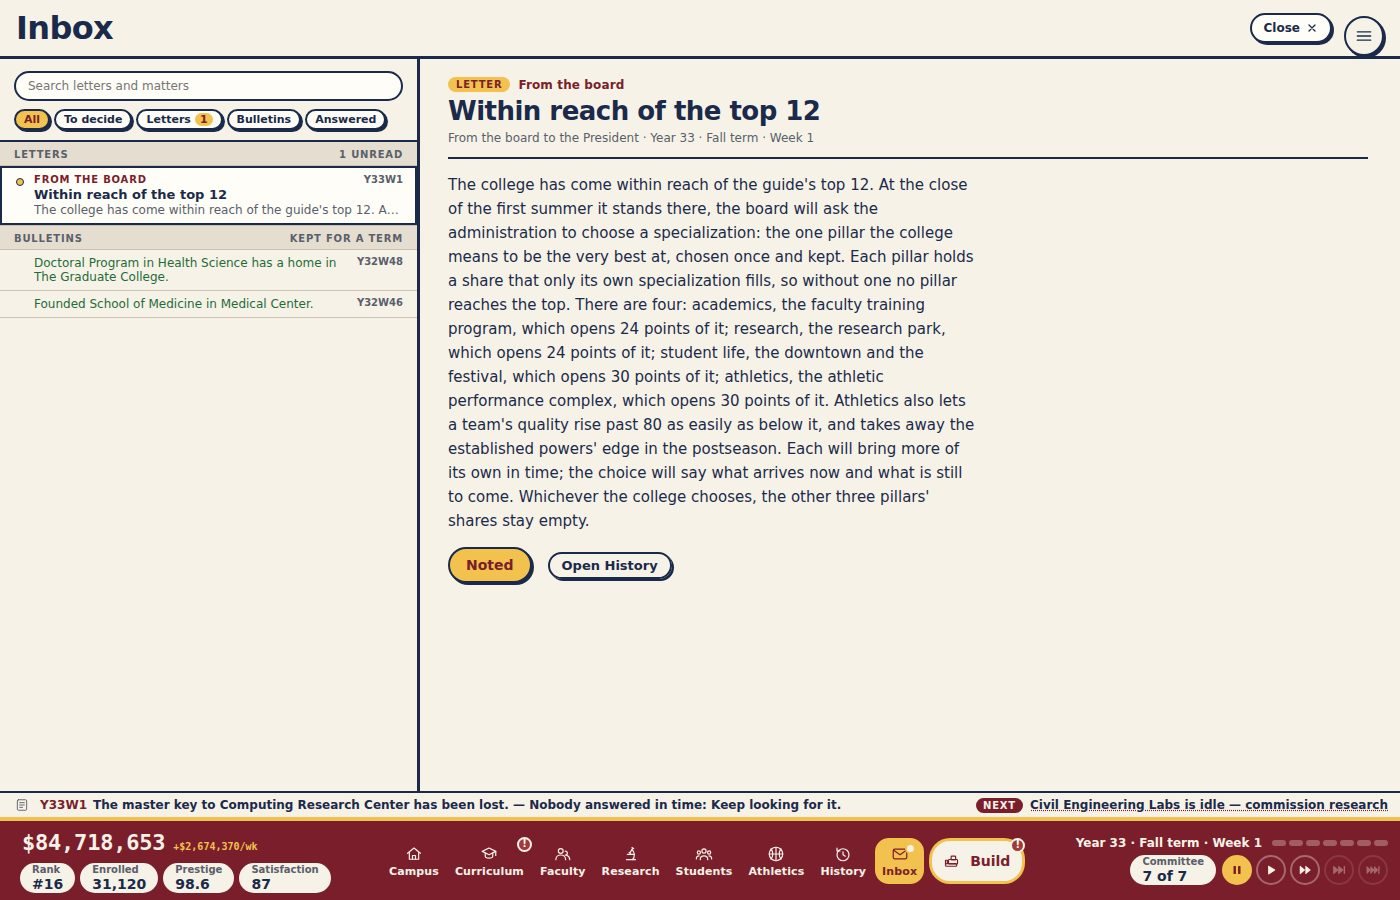
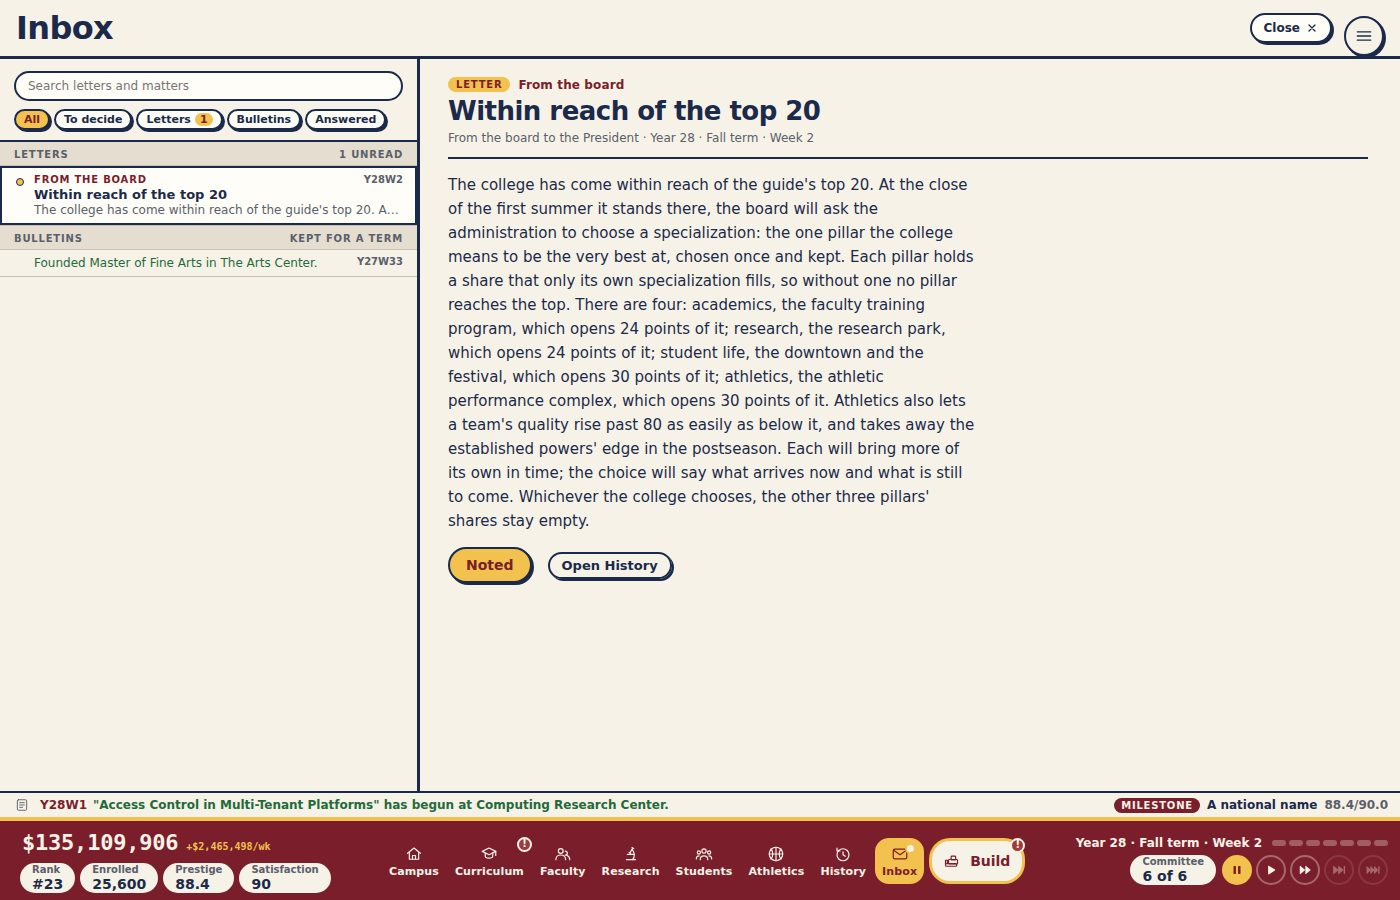
Plan 85D: the milestone lowered to the top 20
The owner kept the no-caps structure and lowered the milestone instead
(Plan 85 §2, 2026-09-30). Without the ceilings' slack the strong players
climb later; at the top 12 the Completionist reached it after year 40 on
two seeds. The top 20 is the tightest rank inside the owner's years 25-40
on every seed: Guided 29-31, the Completionist 30-38 (the top 18 and 19
reach 41 on seed 4242). The notice stays at four places, the top 24.

Choosing earlier fills the term sooner: Guided is first on every seed from
years 42-44, the Completionist on two from 45 and 49; held to no
specialization neither is ever first (best 4th). Baseline re-recorded, 0
deltas. The notice and choice screenshots are retaken for the new words.

Claude-Session: https://claude.ai/code/session_01626829xCDikHrhnzaA5AeP

diff --git a/unischool/src/systems/prestige/prestigeSystem.ts b/unischool/src/systems/prestige/prestigeSystem.ts
@@ -105,10 +105,10 @@ export const UNSPECIALIZED_MAXIMA: Readonly<Record<Pillar, number>> = {
 // specialization is offered at the first summer the college stands this
 // high in the guide's overall ranking. A rank, not a prestige figure, so it
 // survives a retune. Tuned so the Guided and Completionist players first
-// stand there in years 25-40 (the owner's range) with some margin: at the
-// top 15 they reached it in years 24-27 (Plan 85C's measure), at the top 12
-// in years 27-30 on every seed.
-export const SPECIALIZATION_MILESTONE_RANK = 12;
+// stand there in years 25-40 (the owner's range) on every seed, with some
+// margin. Without caps (Plan 85D's review) they climb later: they reach the
+// top 20 in years 29-38; the top 18 would be 30-41, the top 15 32-45.
+export const SPECIALIZATION_MILESTONE_RANK = 20;
 // The board's notice comes when the college first stands within this many
 // places of the milestone: two to four years ahead of it for a college
 // climbing as the strong players do.

diff --git a/docs/plans/85-specializations.md b/docs/plans/85-specializations.md
@@ -117,6 +117,12 @@ pillars, and this plan records the change.
   Athletics' team ceiling becomes a slowdown of a program's quality above a
   knee, and the rivals' unspecialized axes drift toward targets instead of
   stopping at the ceilings. See 85D's note.
+- **The milestone lowered, the structure kept (the owner's decision,
+  2026-09-30, reviewing the no-caps rework).** Without the ceilings' slack
+  the strong players climb later, and at the top 12 the Completionist
+  reached the milestone after year 40 on two seeds. The owner kept the
+  structure (the missing specialization term, no diminishing returns
+  instead) and lowered the milestone to the top 20. See 85D's note.
 - **The milestone is a rank, not a prestige number,** so it survives the
   retune:
   - the choice is offered at the first summer the college stands in the
@@ -506,12 +512,14 @@ note).*
   trip, and `review:strings`.
 
 **As implemented (#276):** the college chooses a specialization once, at the
-close of the first summer it stands in the guide's top 12, and keeps it. In
+close of the first summer it stands in the guide's top 20, and keeps it. In
 the owner's review of the first version (which lifted a hard ceiling), the
 owner decided against hard caps (§2), so this PR also replaces 85C's
 ceilings: each pillar now holds a specialization term that only its own
 specialization fills. The choice opens that term, which fills over ten
-years until 85E–H give it a mechanic. Save version 89.
+years until 85E–H give it a mechanic. Reviewing that, the owner kept the
+structure and lowered the milestone from the top 12 to the top 20 (§2).
+Save version 89.
 
 - **`s.specialization`** is `'none'` or a pillar (`types.ts`'s
   `Specialization`, the pillar keys 85B and 85C use), with
@@ -574,17 +582,35 @@ years until 85E–H give it a mechanic. Save version 89.
   `athleticsLifted`, which `teamQualityCurve` and `stageEdge` read and 85G's
   complex extends.
 - **The milestone** (`prestigeSystem.ts`'s `SPECIALIZATION_MILESTONE_RANK`,
-  beside the term weights): **the top 12**, not the plan's 15. It was chosen
-  on the first version, where the strong players reached the top 15 in years
-  24–27 and the top 12 in 27–30. It is read at the summer's own week after
-  the field has moved: the table the summer's review prints.
+  beside the term weights): **the top 20**. It is read at the summer's own
+  week after the field has moved: the table the summer's review prints.
+  - On the first version, with the ceilings, the strong players reached the
+    top 15 in years 24–27, so the milestone was the top 12 (years 27–30).
+  - Without caps they climb about six years later, and at the top 12 the
+    Completionist arrived in years 43 and 49 on two seeds.
+  - The owner kept the structure and asked for the tightest rank inside
+    25–40 on every seed. First summer at each rank (seeds 12345, 4242,
+    777; Guided, then the Completionist):
+
+    | Rank | Guided | Completionist |
+    |---|---|---|
+    | Top 12 | 35, 35, 36 | 43, 49, 40 |
+    | Top 15 | 34, 32, 34 | 40, 45, 36 |
+    | Top 18 | 33, 31, 30 | 39, 41, 34 |
+    | Top 19 | 32, 30, 30 | 36, 41, 33 |
+    | Top 20 | 31, 29, 30 | 36, 38, 30 |
+
+    The top 20 is the tightest that holds on every seed, with two years to
+    spare at the late end (the Completionist's 38) and four at the early
+    (Guided's 29). The rank changes only when the choice comes: the climb
+    to it is the same whatever it is.
 - **The notice** (`SPECIALIZATION_NOTICE_PLACES`): the first week the college
-  stands within four places of the milestone (the top 16), the board's
-  letter ("Within reach of the top 12") arrives in the inbox as a board
+  stands within four places of the milestone (the top 24), the board's
+  letter ("Within reach of the top 20") arrives in the inbox as a board
   letter, which never stops the clock. It names the four specializations and
   the points of its pillar each opens, says athletics also frees the teams,
   and says the rest arrives in time. The strong players have it two to five
-  years ahead (Guided in years 33, 32, 33; Completionist 40, 44, 35, on
+  years ahead (Guided in years 28, 27, 28; Completionist 31, 36, 28, on
   seeds 12345, 4242, 777). Its second button opens History, not the
   Treasury. It comes once.
 - **The choice** is raised by `RESOLVE_ADMISSIONS` after the page has turned
@@ -612,14 +638,14 @@ years until 85E–H give it a mechanic. Save version 89.
   sandbox run neither gets the notice nor the offer.
 - **Once chosen:** History › Prestige and the standings open with a line
   saying where the college stands on the choice ("The college is
-  specialized in academics, chosen in Year 35: academics may rise to the
+  specialized in academics, chosen in Year 31: academics may rise to the
   full 150, and the other three pillars' specialization terms stay empty";
   before it, the offer standing or the milestone to reach, and that the
   terms are empty). The specialized pillar's row and standings card are
   marked *Specialized*. The Athletics tab's help says what the
   specialization leaves of the slowdown. The guide tags the college with
   its specialization as it tags every rival. The chronicle's era says "In
-  Year 35 it chose to specialize in academics: the faculty training
+  Year 31 it chose to specialize in academics: the faculty training
   program."
 - **The Final Report names the specialization first** (the owner's "fix the
   report"): once the college has one, the title's phrase is the card's own,
@@ -647,52 +673,58 @@ years until 85E–H give it a mechanic. Save version 89.
   `sim/harness/invariants.ts` checks the specialization and its year. The
   review's change moves no saved field.
 - **What each player picks** (seeds 12345, 4242, 777): Guided academics in
-  years 35, 35, 36; Completionist academics in years 43, 49, 40. Academics
-  is the highest value when the choice comes (Guided seed 12345 at year 36:
-  academics 117, #7; research 115, #7; student life 97, #9; athletics 60,
-  #80). Selective, Lean and Idle never reach the milestone (best ranks 55)
+  years 31, 29, 30; Completionist academics in years 36, 38, 30. Academics
+  is the highest value when the choice comes (Guided seed 12345 at year 32:
+  academics 111, #10; research 107, #11; student life 93, #10; athletics 60,
+  #77). Selective, Lean and Idle never reach the milestone (best ranks 55)
   and never specialize.
 - **The sim moves**, against main's baseline (85C), medians of three seeds;
   pillar ranks at year 50, academics / research / student life / athletics:
 
   | | Rank Y10 / Y25 / Y50 | Prestige Y10 / Y25 / Y50 | Satisfaction Y10 / Y25 / Y50 | Pillar ranks Y50 |
   |---|---|---|---|---|
-  | Guided | 56 (+1) / 31 (+15) / 1 (−5) | 50.0 (−9.4) / 81.7 (−13.1) / 118.8 (+3.3) | 85.8 (−1.8) / 84.9 (+0.4) / 86.5 (−1.4) | 6 / 9 / 4 / 75, was 9 / 8 / 4 / 67 |
-  | Completionist | 56 (+3) / 35 (+19) / 3 (−4) | 50.1 (−9.6) / 76.4 (−17.6) / 113.0 (−2.5) | 85.7 (+0.8) / 89.6 (+2.8) / 89.7 (+2.2) | 8 / 9 / 4 / 72, was 7 / 12 / 4 / 61 |
+  | Guided | 56 (+1) / 31 (+15) / 1 (−5) | 50.0 (−9.4) / 81.7 (−13.1) / 119.2 (+3.7) | 85.8 (−1.8) / 84.9 (+0.4) / 85.1 (−2.8) | 5 / 8 / 4 / 78, was 9 / 8 / 4 / 67 |
+  | Completionist | 56 (+3) / 35 (+19) / 1 (−6) | 50.1 (−9.6) / 76.4 (−17.6) / 117.2 (+1.7) | 85.7 (+0.8) / 89.6 (+2.8) / 89.9 (+2.5) | 5 / 10 / 4 / 75, was 7 / 12 / 4 / 61 |
   | Selective | 60 (+4) / 58 (+8) / 61 (+8) | 43.2 (−8.4) / 51.3 (−12.2) / 52.1 (−13.0) | 86.4 (+1.2) / 83.1 (+3.3) / 81.7 (+4.6) | 56 / 65 / 22 / 100, was 53 / 58 / 5 / 100 |
   | Lean | 64 (+6) / 64 (+7) / 72 (+9) | 40.1 (−6.9) / 43.3 (−8.7) / 42.8 (−9.0) | 75.8 (+1.7) / 75.0 (+7.7) / 73.8 (+6.2) | 56 / 81 / 27 / 100, was 51 / 77 / 7 / 100 |
   | Idle | 80 (+2) / 66 (+7) / 75 (+9) | 30.4 (−1.3) / 41.9 (−7.8) / 38.8 (−7.2) | 84.0 flat | 79 / 80 / 28 / 100, was 81 / 75 / 7 / 100 |
 
   When the strong players first reach each place (seeds 12345, 4242, 777;
-  the year's first week):
+  the year's first week; the milestone is read at the summer before):
 
-  | | Top 15 | Top 12 | Top 10 | #1 |
+  | | Top 20 | Top 15 | Top 10 | #1 |
   |---|---|---|---|---|
-  | Guided, 85C | 26, 26, 24 | 28, 29, 28 | 29, 29, 30 | never (best 6, 4, 3) |
-  | Guided, first 85D | 26, 26, 24 | 28, 29, 28 | 29, 29, 30 | 41, 42, 39 |
-  | Guided, now | 34, 32, 34 | 34, 34, 37 | 36, 36, 39 | 48, 47, 50 |
-  | Completionist, 85C | 27, 26, 26 | 30, 27, 28 | 34, 27, 39 | never (best 6, 6, 9) |
-  | Completionist, first 85D | 27, 26, 26 | 30, 27, 28 | 33, 27, 35 | never, 46, never |
-  | Completionist, now | 40, 46, 37 | 42, 49, 40 | 45, 50, 43 | year 51 (after the fiftieth summer), never (best 10), never (best 2) |
+  | Guided, 85C | 24, 23, 23 | 26, 26, 24 | 29, 29, 30 | never (best 6, 4, 3) |
+  | Guided, first 85D (top 12, ceilings) | 24, 23, 23 | 26, 26, 24 | 29, 29, 30 | 41, 42, 39 |
+  | Guided, no caps, top 12 | 31, 29, 30 | 34, 32, 34 | 36, 36, 39 | 48, 47, 50 |
+  | Guided, now (top 20) | 31, 29, 30 | 34, 32, 34 | 35, 35, 38 | 42, 42, 44 |
+  | Completionist, 85C | 24, 22, 22 | 27, 26, 26 | 34, 27, 39 | never (best 6, 6, 9) |
+  | Completionist, first 85D (top 12, ceilings) | 24, 22, 22 | 27, 26, 26 | 33, 27, 35 | never, 46, never |
+  | Completionist, no caps, top 12 | 36, 38, 30 | 40, 46, 37 | 45, 50, 43 | year 51, never, never |
+  | Completionist, now (top 20) | 36, 38, 30 | 40, 44, 35 | 42, 45, 39 | 49, never (best 2), 45 |
 
-  The same players held to no specialization (`'never'`): Guided's best
-  place 5, 4, 4 and year-50 prestige 111.3; the Completionist's 5, 10, 7 and
-  110.5, 106.0, 110.4.
+  At year 50 Guided is first on every seed (prestige 119.8, 119.0, 119.2);
+  the Completionist is first on seeds 12345 and 777 (117.2, 119.5) and
+  second on 4242 (113.6). The
+  same players held to no specialization (`'never'`): Guided's best place
+  5, 4, 4 and year-50 prestige 111.3; the Completionist's 5, 10, 7 and
+  110.5, 106.0, 110.4. They never reach first.
 
-  - **The balance targets.** Unspecialized optimal play reaches the top 10
-    and is never first: met (the best any reaches is 4th). A specialized
-    strong player can reach #1: met (Guided on every seed, from years
-    47–50; the Completionist on one, after the fiftieth summer). **The
-    milestone in years 25–40: met for Guided (years 35, 35, 36, at the
-    summer), missed for the Completionist on two seeds of three (43, 49; 40
-    on the third).**
+  - **The balance targets, all met.** Unspecialized optimal play reaches the
+    top 10 and is never first (the best any reaches is 4th). The milestone
+    comes in years 25–40 on every seed (Guided 29–31, the Completionist
+    30–38, at the summer). A specialized strong player reaches #1: Guided on
+    every seed, from years 42–44; the Completionist on two, from 45 and 49.
+    Choosing earlier fills the term sooner, so first place came five or six
+    years earlier than with the milestone at the top 12.
   - **Why it moves.** With no slack above a cap, a college's every shortfall
     shows: each pillar's other terms now fill 94 (or 88) of its 118 points
     rather than all of them, and the capital projects share them rather than
     sitting on top. Every player stands lower through the middle of the run
     (prestige at year 25 is 13 to 18 lower for the strong players), and the
-    climb to the top 12 comes about six years later. The rivals' targets
-    were the one lever on the field: lowering them brings the milestone
+    climb up the guide comes about six years later. Before the owner
+    lowered the milestone, the rivals' targets were the one lever on the
+    field: lowering them brings the milestone
     earlier but lets an unspecialized college reach first place late. In the
     trials, with targets 80% of the way from the floor to the natural
     maxima, Guided without a specialization was first in year 49 on one
@@ -701,7 +733,7 @@ years until 85E–H give it a mechanic. Save version 89.
     unspecialized college out of first place and put Guided's milestone
     inside the range. Smaller terms (18, 18, 24, 32), with the targets tied
     to the natural maxima, left the milestone where it was (Guided 33–41,
-    Completionist 40–44). The milestone's rank was not one of the levers.
+    Completionist 40–44). Then the owner lowered the milestone (above).
   - Selective, Lean and Idle fall 7 to 13 in prestige and 7 to 9 places:
     their pillars shrink with the same rescale, and student life, which
     their welfare filled, ranks in the 20s, not the top ten.
@@ -720,7 +752,9 @@ years until 85E–H give it a mechanic. Save version 89.
 
   Titles stay rare: a handful at most by year 50, though now every run
   wins at least one. Its athletics ranks about where it did, and its
-  overall rank falls with every player's pillars (above).
+  overall rank falls with every player's pillars (above). The milestone at
+  the top 20 does not move it: its best place in any run is 41st, so it is
+  never offered the choice.
 - **Checks:** `npm run check`; `npm run test:slow`; `npm run sim`
   re-recorded (`--save`), then 0 deltas; `npm run phone` on the
   `specialization` scenario (the choice at 390 and 820 wide), the launch
@@ -745,13 +779,12 @@ years until 85E–H give it a mechanic. Save version 89.
   inbox), `85d-choice.jpg` and `85d-choice-phone.jpg` (the choice at 1400
   and 390 wide), `85d-choice-confirm.jpg` (the confirm step armed),
   `85d-prestige-unspecialized.jpg` (History › Prestige before the choice,
-  academics opened on its empty term), `85d-prestige.jpg` (after choosing,
-  year 47), `85d-standings.jpg`, `85d-guide.jpg` and `85d-final-report.jpg`
+  academics opened on its empty term; taken with the milestone at the top
+  12, in year 33), `85d-prestige.jpg` (after choosing, year 47), `85d-standings.jpg`, `85d-guide.jpg` and `85d-final-report.jpg`
   (the Final Report's line naming the specialization).
 - **Open, for review:**
-  - **The milestone misses for the Completionist** (above). The knobs the
-    review allowed trade it against an unspecialized first place; the
-    milestone's rank itself, or the pillars' old slack, would move it.
+  - **The milestone is now the top 20**, nearly twice the first version's
+    rank, because the climb without caps is slower (above).
   - **Both strong players pick academics.** 85I's fixed-pick variants will
     show what the other three are worth.
   - **Athletics' term is 30**, not the 40 asked for, for the championships

diff --git a/docs/design/progression.md b/docs/design/progression.md
@@ -216,7 +216,7 @@ specialization a program's quality slows above 80 and titles are rare (see
 without a specialization reaches the overall top ten and never first place.
 Its cost, measured in Plan 85D: with no slack above a cap, every shortfall
 shows, so every college stands lower through the middle of the run than it
-did under the ceilings, and the strong players reach the top 12 about six
+did under the ceilings, and the strong players climb the guide about six
 years later.
 
 **The milestone and the choice** ([Plan 85](../plans/85-specializations.md)
@@ -224,12 +224,15 @@ PR D; `systems/prestige/milestone.ts`). The specialization is chosen once,
 late, and kept:
 
 - **The milestone is a rank, not a prestige figure,** so it survives a
-  retune: the guide's top 12 (`SPECIALIZATION_MILESTONE_RANK`, beside the
-  term weights). The plan's first number was the top 15. Guided reaches the
-  top 12 in years 35–36; the Completionist in years 40, 43 and 49, later
-  than the owner's 25–40 on two seeds of three (Plan 85D's note).
+  retune: the guide's top 20 (`SPECIALIZATION_MILESTONE_RANK`, beside the
+  term weights). The plan's first number was the top 15, and the first
+  version, with ceilings, used the top 12. Without them the climb is
+  slower, and the owner kept the structure and lowered the milestone (Plan
+  85 §2, 2026-09-30): the top 20 is the tightest rank the Guided and
+  Completionist players reach in the owner's years 25–40 on every seed
+  (Guided 29–31, the Completionist 30–38).
 - **The board's notice** comes the first week the college stands within
-  four places of it (`SPECIALIZATION_NOTICE_PLACES`, the top 16): a board
+  four places of it (`SPECIALIZATION_NOTICE_PLACES`, the top 24): a board
   letter in the inbox, which never stops the clock, naming the four
   specializations and the points of its pillar each opens. The strong
   players have it two to five years ahead of the milestone.
@@ -265,10 +268,10 @@ late, and kept:
   known first for its teaching"), in place of the guidebooks' tag.
 
 With only the term filling, the Guided player (which chooses its strongest
-pillar, academics, in years 35–36) reaches first place in years 47–50 and
+pillar, academics, in years 29–31) reaches first place in years 42–44 and
 holds it at year 50 on every seed; the Completionist (academics, years
-40–49) finishes third, first on one seed after the fiftieth summer. Held to
-no specialization, neither is ever first (best 4th).
+30–38) is first on two seeds of three, from years 45 and 49. Held to no
+specialization, neither is ever first (best 4th).
 
 The pillars' terms, as they were weighted inside prestige before:
 

diff --git a/docs/architecture/interrupts.md b/docs/architecture/interrupts.md
@@ -74,7 +74,7 @@ Everything that needs to stop time rides on this one mechanism:
   (`RESOLVE_DEAN_RECOMMENDATIONS`). Unanswered, the programs stay dark.
 - **The specialization** (`specialization`, Plan 85D) — raised by
   `RESOLVE_ADMISSIONS` at the close of the first summer the college stands
-  at the milestone (the guide's top 12), and of every summer after until a
+  at the milestone (the guide's top 20), and of every summer after until a
   specialization is chosen (`systems/prestige/milestone.ts`). It is raised
   after the page has turned, on the new year's first week before it runs,
   so its answer (`RESOLVE_SPECIALIZATION`, a pillar or null for "not this
